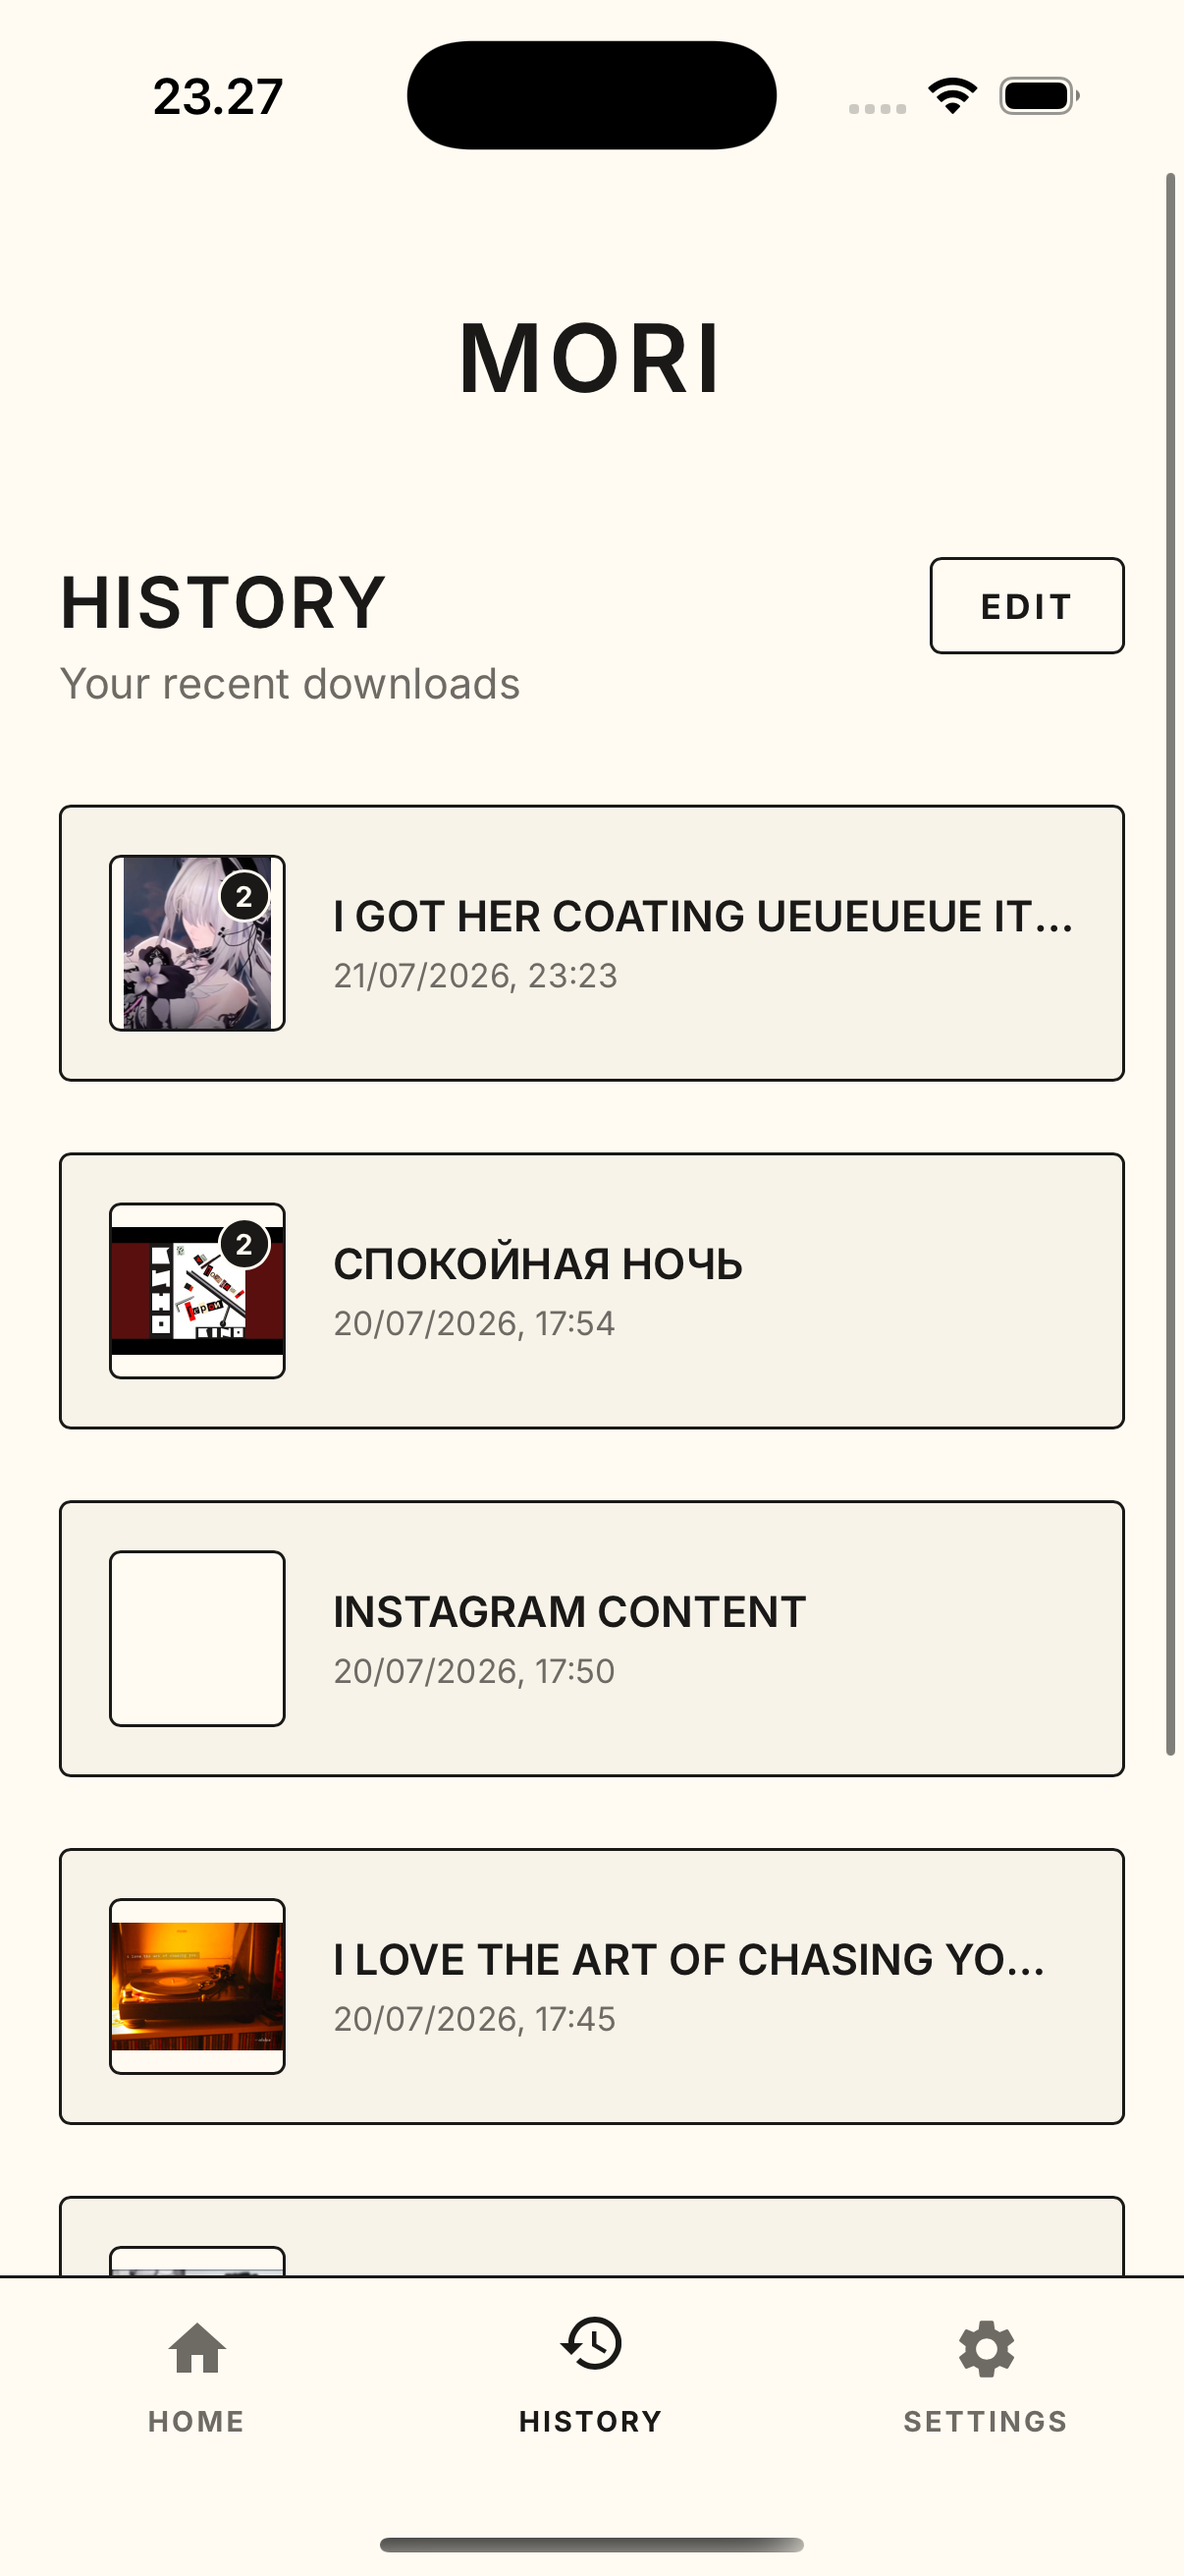
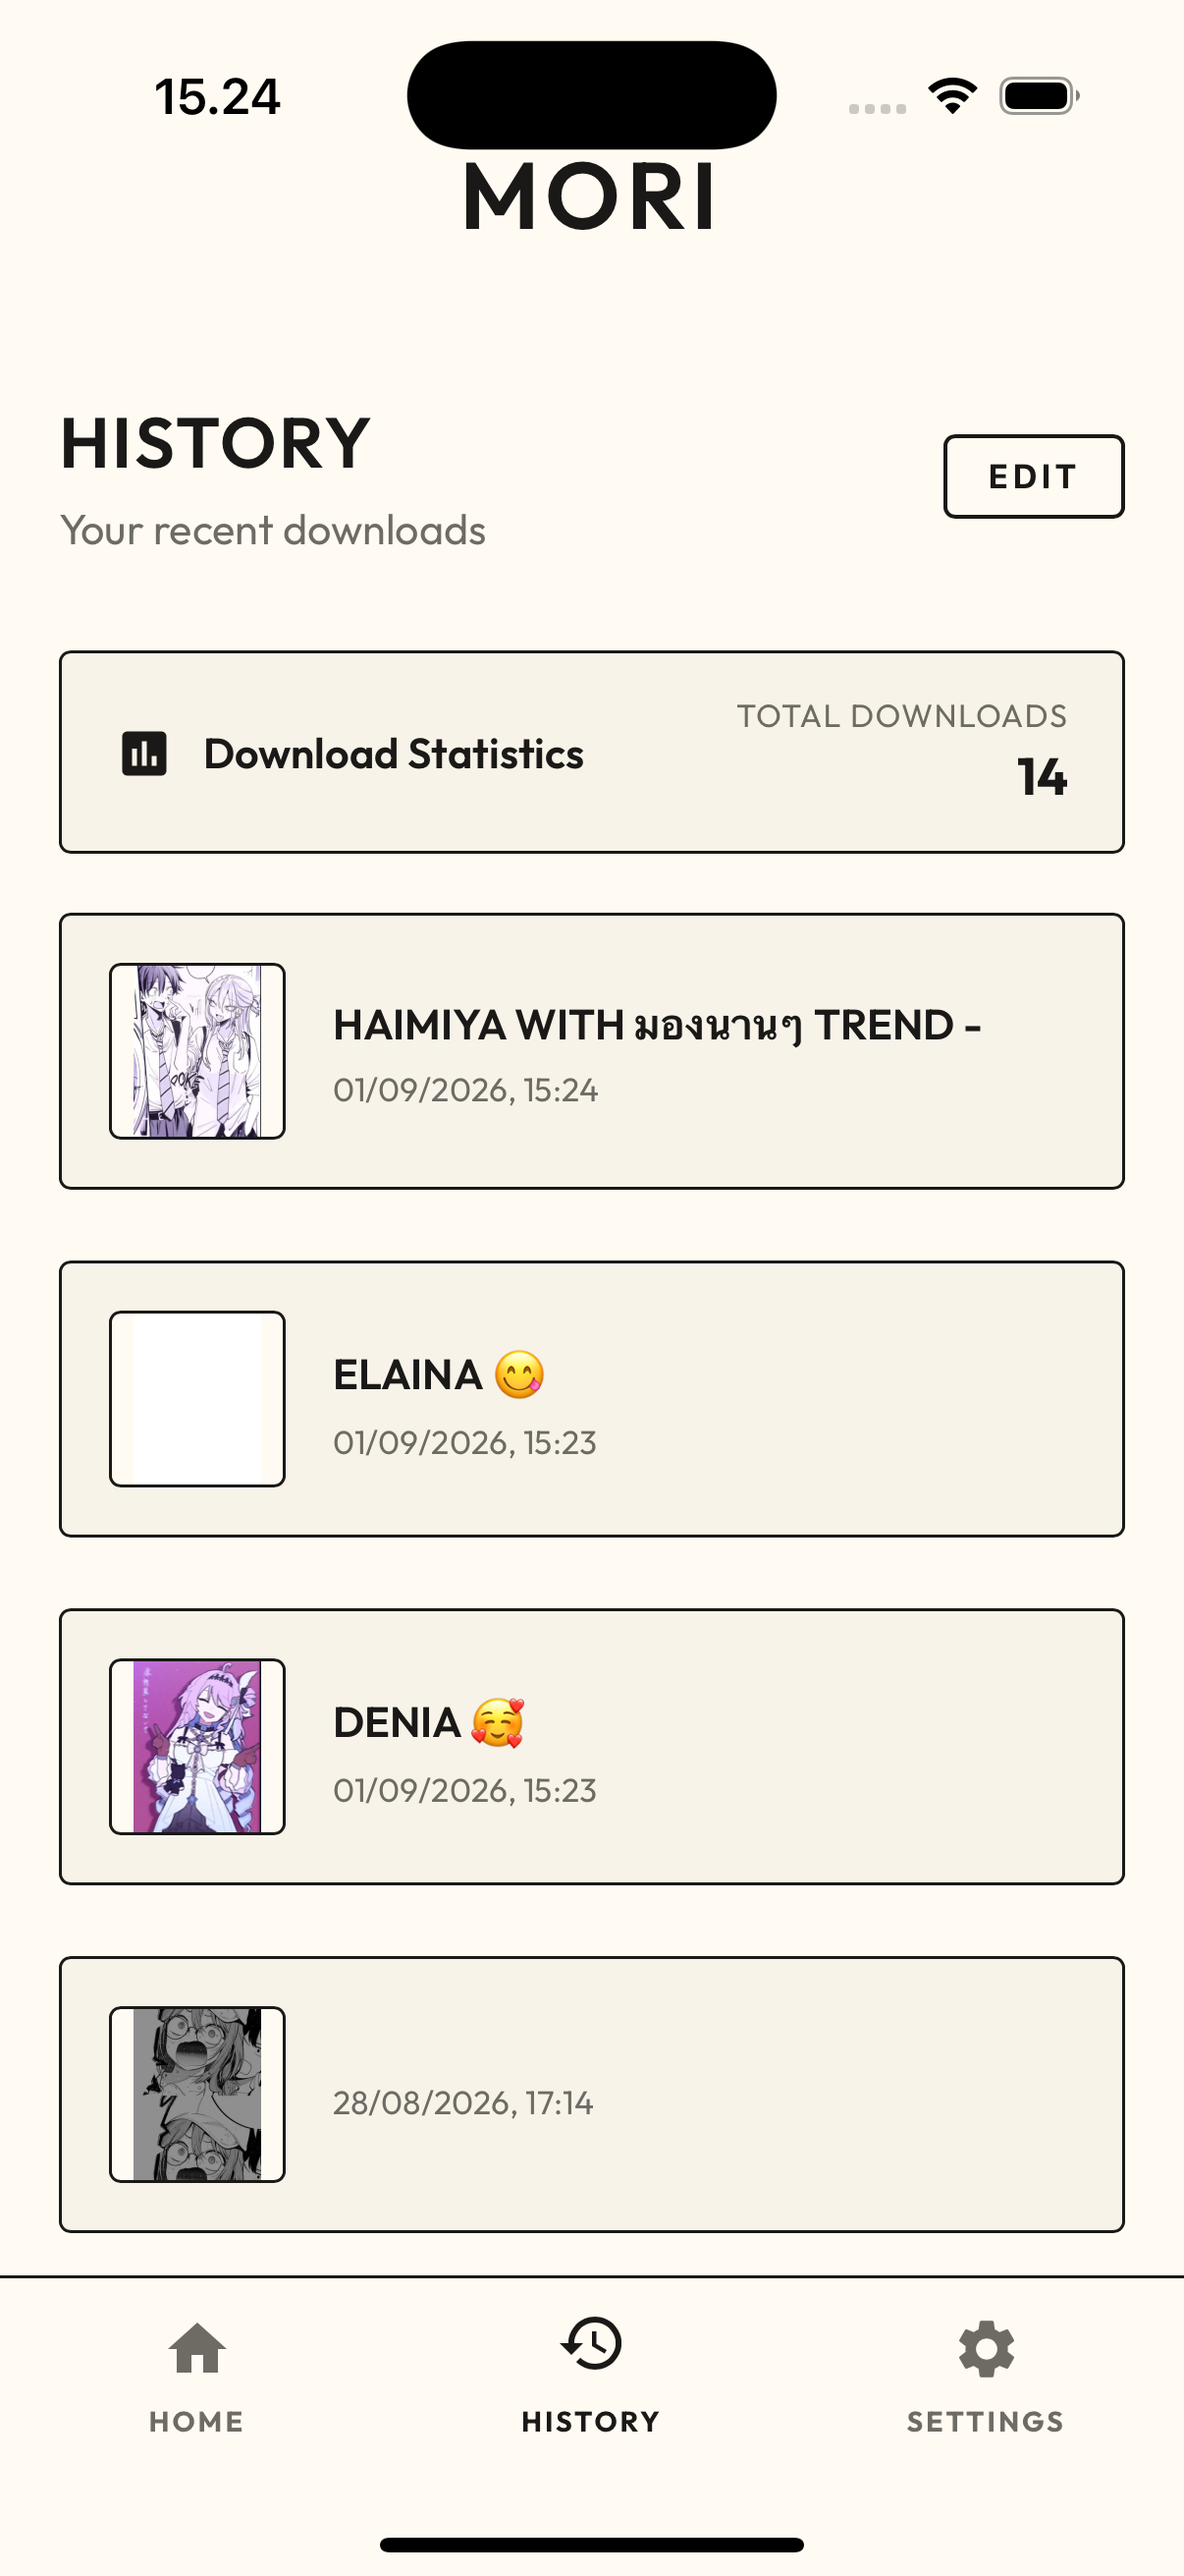
fix(ios): resolve local media file URI in player and result modal

diff --git a/public/js/ui/resultModal.js b/public/js/ui/resultModal.js
@@ -131,18 +131,18 @@ export async function showModal(item, onRedownload) {
       ) {
         return pathOrUri;
       }
-      let full = pathOrUri;
+      let full = String(pathOrUri);
       if (full.includes("_capacitor_file_")) {
         full = full.substring(full.indexOf("_capacitor_file_") + 16);
       }
       if (full.startsWith("file://")) {
         return full;
       }
-      if (
-        !full.startsWith("/") &&
-        window.Capacitor?.getPlatform?.() === "android"
-      ) {
-        full = "/storage/emulated/0/" + full.replace(/^\//, "");
+      const platform = window.Capacitor?.getPlatform?.();
+      if (!full.startsWith("/")) {
+        if (platform === "android") {
+          full = "/storage/emulated/0/" + full.replace(/^\//, "");
+        }
       }
       return full.startsWith("file://")
         ? full
@@ -163,8 +163,8 @@ export async function showModal(item, onRedownload) {
     if (hasDownloadedFiles) {
       if (localFiles.length > 0) {
         localFiles.forEach((file) => {
-          if (file && (file.path || file.uri)) {
-            const fileSrc = file.path || file.uri;
+          if (file && (file.uri || file.path)) {
+            const fileSrc = file.uri || file.path;
             const mediaType =
               file.type ||
               (fileSrc.toLowerCase().endsWith(".mp4")

diff --git a/public/js/components/player.js b/public/js/components/player.js
@@ -113,7 +113,7 @@ export function createVideoPlayer(dl, index, resultThumbnail) {
 
   if (isLocal && (isNative || tauriConvertFileSrc || tauriInvoke)) {
     playerContainer.classList.add("mori-loading");
-    let cleanPath = videoUrl || dl.rawPath || dl.rawUri;
+    let cleanPath = dl.rawUri || videoUrl || dl.rawPath || "";
 
     if (cleanPath.startsWith("content://")) {
       const capSrc = window.Capacitor?.convertFileSrc
@@ -168,10 +168,17 @@ export function createVideoPlayer(dl, index, resultThumbnail) {
       video.src = tauriConvertFileSrc(cleanPath);
       removeLoading();
     } else if (isNative) {
-      if (!cleanPath.startsWith("/")) {
-        cleanPath = "/storage/emulated/0/" + cleanPath;
+      let rawFileUrl;
+      if (cleanPath.startsWith("/")) {
+        rawFileUrl = "file://" + cleanPath;
+      } else {
+        const platform = window.Capacitor?.getPlatform?.();
+        if (platform === "android") {
+          rawFileUrl = "file:///storage/emulated/0/" + cleanPath.replace(/^\//, "");
+        } else {
+          rawFileUrl = dl.rawUri || ("file:///" + cleanPath.replace(/^\//, ""));
+        }
       }
-      const rawFileUrl = "file://" + cleanPath;
       const capSrc = window.Capacitor.convertFileSrc(rawFileUrl);
 
       video.src = capSrc;

diff --git a/README.md b/README.md
@@ -17,6 +17,10 @@
 
 Mori is a fast and simple downloader for saving videos, photos, and music from 14 popular social media apps. Everything runs directly on your device, with no external servers, tracking, or ads. Your downloads stay private and in your control.
 
+<a href="https://sociabuzz.com/coflyn/tribe" target="_blank">
+  <img src="https://cdn.buymeacoffee.com/buttons/v2/default-yellow.png" alt="Buy Me A Coffee" height="60" />
+</a>
+
 </div>
 
 ## 📸 Screenshots
